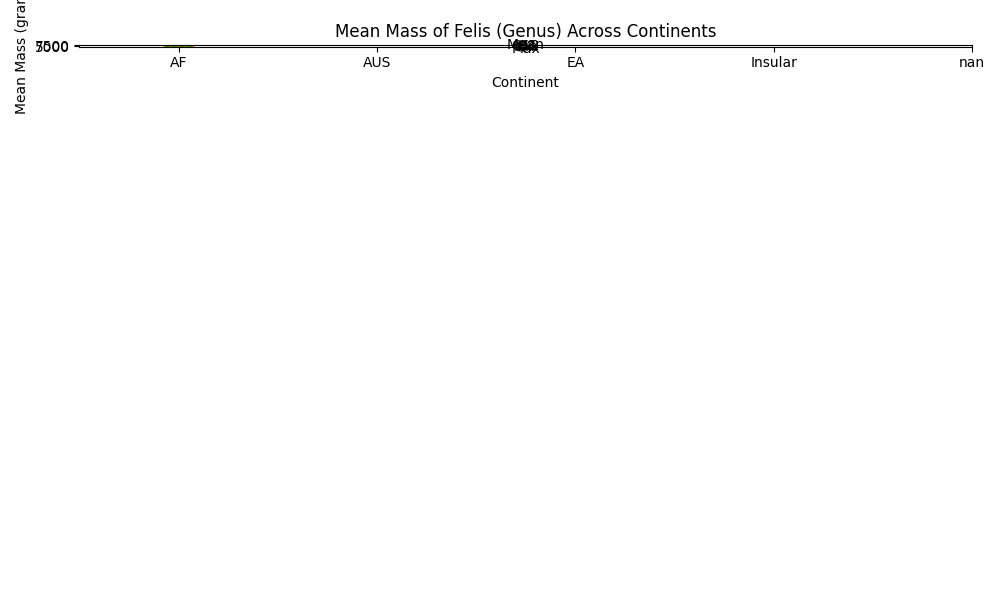
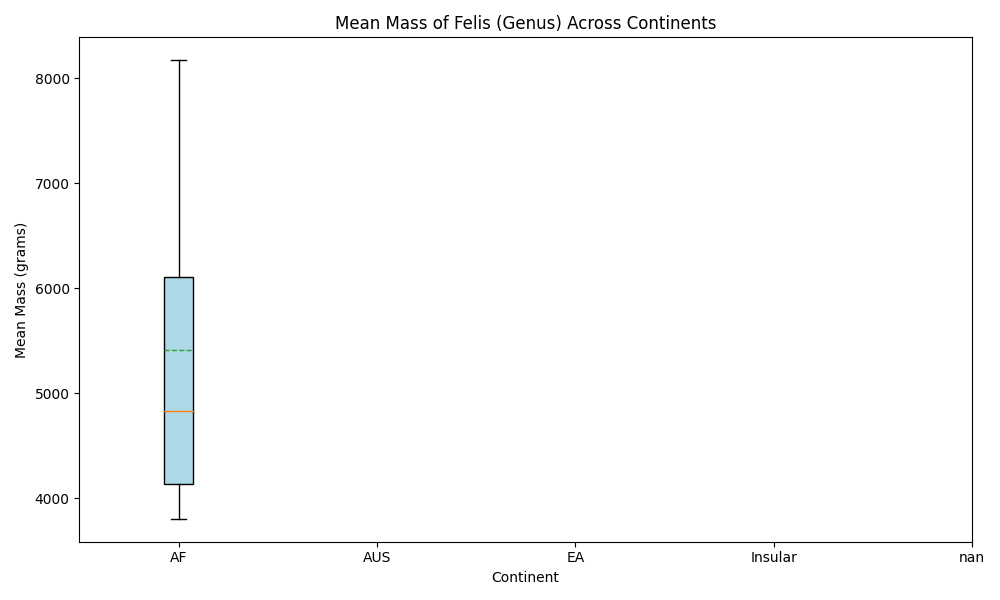
re 3

diff --git a/Assignment_code.py b/Assignment_code.py
@@ -137,11 +137,20 @@ for patch, color in zip(box['boxes'], colors):
 
 # Add descriptions and annotations for quantiles and mean line
 quantiles = [0.25, 0.5, 0.75]
+mean_position = 1
+min_position = -0.15
+max_position = -1.15
+
 for i, q in enumerate(quantiles):
-    plt.text(0.5, (i + 1) * 0.25 + 0.1, f'Q{int((i+1)*4)}', color='black', ha='center', va='center', transform=plt.gca().transAxes)
-plt.text(0.5, 1.05, 'Mean', color='black', ha='center', va='center', transform=plt.gca().transAxes)
-plt.text(0.5, -0.15, 'Min', color='black', ha='center', va='center', transform=plt.gca().transAxes)
-plt.text(0.5, -1.15, 'Max', color='black', ha='center', va='center', transform=plt.gca().transAxes)
+    plt.annotate(f'Q{int((i+1)*4)}', xy=(mean_position, (i + 1) * 0.25), color='black',
+                 ha='center', va='center', xytext=(0, 5), textcoords='offset points')
+    
+plt.annotate('Mean', xy=(mean_position, 1.05), color='black',
+             ha='center', va='center', xytext=(0, 5), textcoords='offset points')
+plt.annotate('Min', xy=(mean_position, min_position), color='black',
+             ha='center', va='center', xytext=(0, 5), textcoords='offset points')
+plt.annotate('Max', xy=(mean_position, max_position), color='black',
+             ha='center', va='center', xytext=(0, 5), textcoords='offset points')
 
 # Set labels, title, and adjust layout
 plt.xlabel('Continent')
